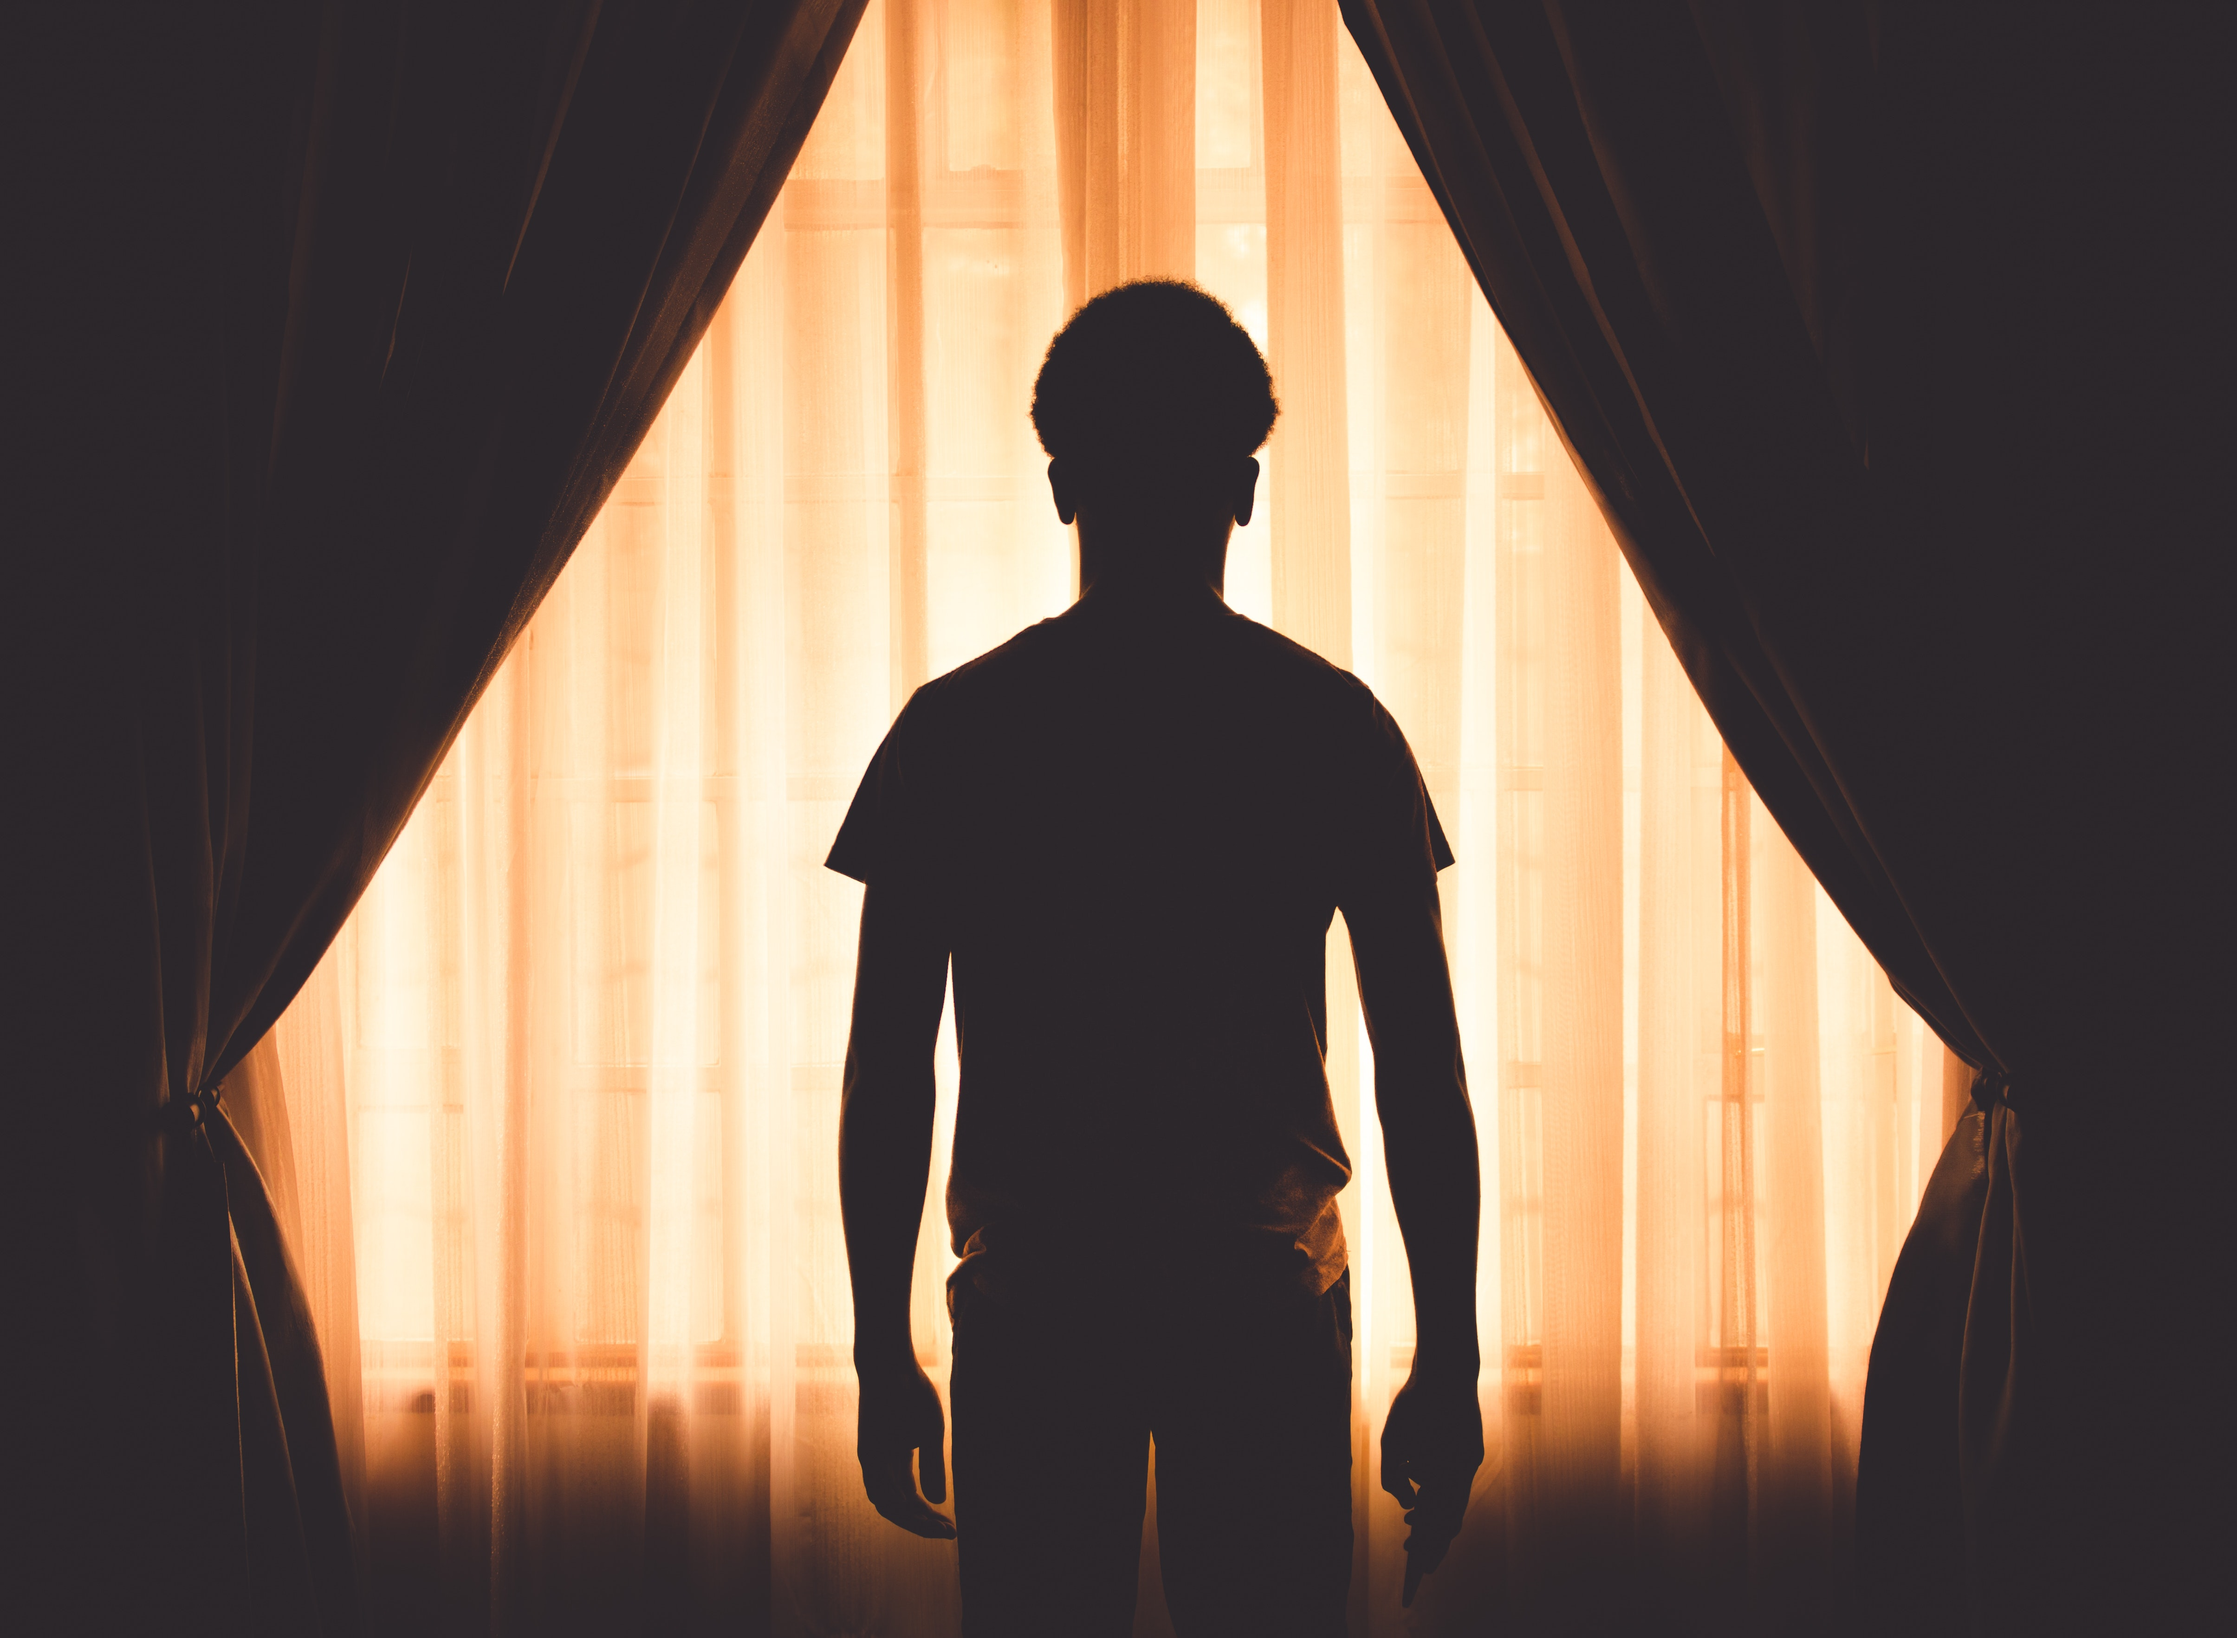
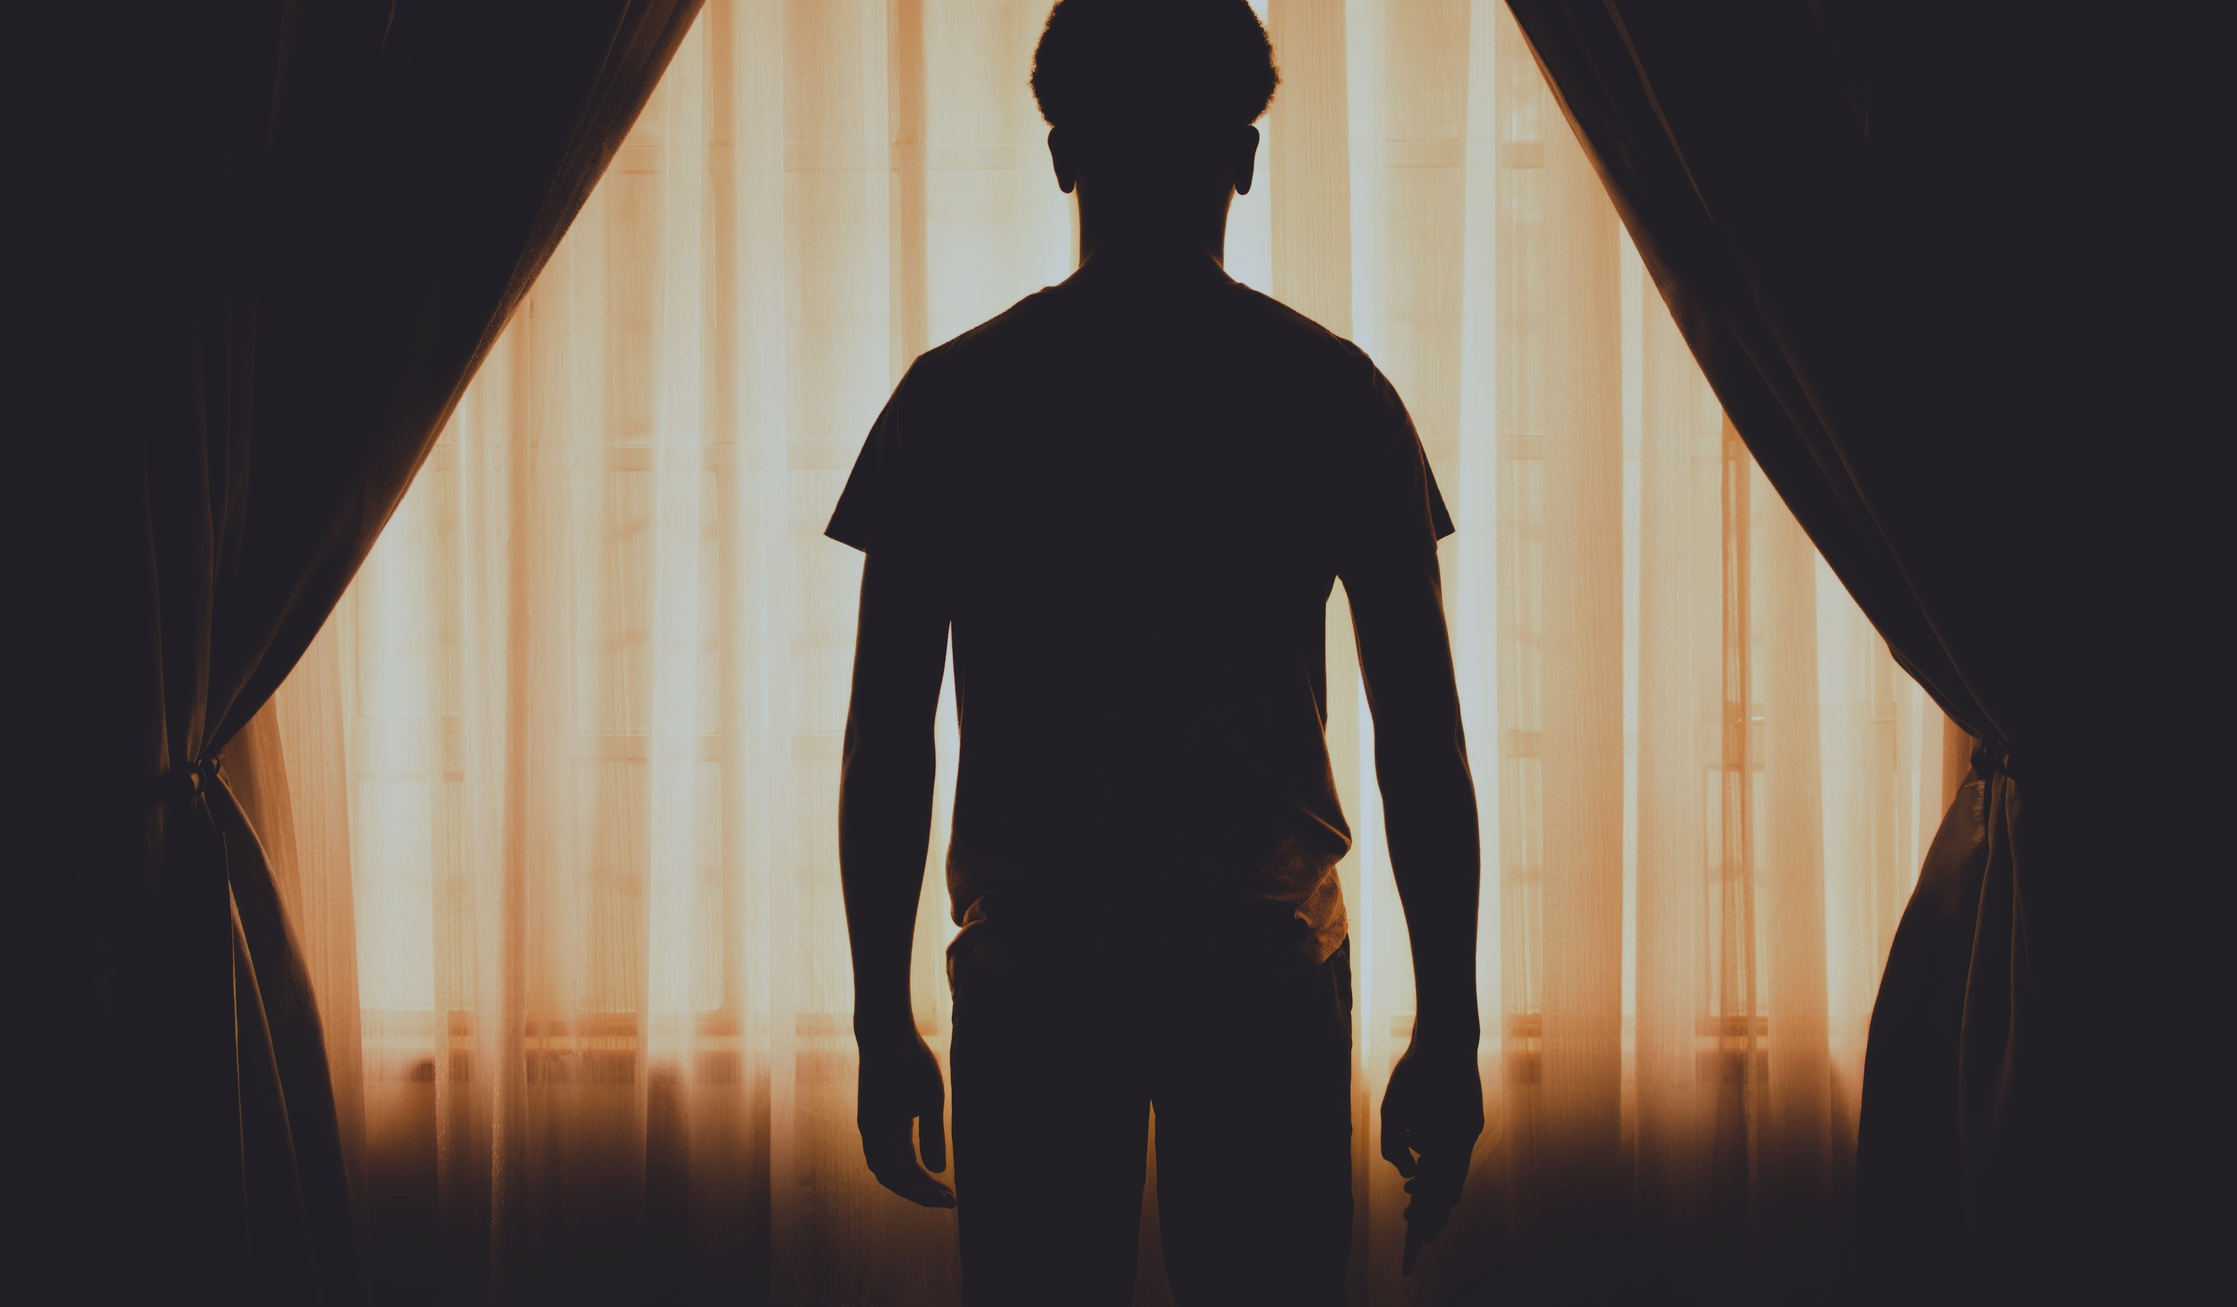
home page 85%

diff --git a/index.html b/index.html
@@ -19,17 +19,17 @@
       
        </button>
 
-        <!-- Adding Collapse Target Div  -->
+
         <div class="collapse navbar-collapse" id="colNav" style="padding-right: 5%;">
 
-            <!-- To the left side side  -->
+            
             <ul class="navbar-nav ml-auto">
 
                 <li class="nav-item active " style="padding-right: 0.5rem;">
-                    <a href="#" class="nav-link"><i class="fas fa-user-secret"></i> &nbsp;&nbsp;Home <span class="sr-only">(current)</span></a></li>
-              <li class="nav-item active"><a href="#" class="nav-link"><i class="fas fa-pen-nib"></i> &nbsp;&nbsp;Writtings</a></li>
-              <li class="nav-item active"><a href="#" class="nav-link"><i class="fas fa-flask"></i> &nbsp;&nbsp;Courses</a></li>
-              <li class="nav-item active"><a href="#" class="nav-link"><i class="fas fa-wrench"></i> &nbsp;&nbsp;Templates</a></li>
+                    <a href="#" class="nav-link"><i class="fas fa-user-secret"></i> &nbsp;&nbsp;About <span class="sr-only">(current)</span></a></li>
+              <li class="nav-item active"><a href="#" class="nav-link"><i class="fas fa-flask"></i> &nbsp;&nbsp;Portfolio</a></li>
+              <li class="nav-item active"><a href="#" class="nav-link"><i class="fas fa-pen-nib"></i> &nbsp;&nbsp;Blog</a></li>
+              <li class="nav-item active"><a href="#" class="nav-link"><i class="fas fa-wrench"></i> &nbsp;Contact</a></li>
               <li class="nav-item active" style="padding-left: 20px;"><a href="#" class="nav-link"><i class="fab fa-instagram"></i></a></li>
               <li class="nav-item active"><a href="#" class="nav-link"><i class="fab fa-twitter"></i></a></li>
               <li class="nav-item active"><a href="#" class="nav-link"><i class="fab fa-youtube"></i></a></li>  
@@ -42,12 +42,116 @@
     </nav>
     
     <div class="conatiner">
-        <img src="/Assets/Images/person-using-keyboard-beside-phone-and-coffee-cup-2255355.jpg" class="img-fluid" alt="Responsive image" id="homepagepic">
-        <div class="centered"><b>HI, I'M Tewodros Mesfin</b>
+        <img src="/Assets/Images/art-back-view-backlit-boy-448834.jpg" class="img-fluid" alt="Responsive image" id="homepagepic">
+        <div class="centered"><b>HI, I'm Tewodros Mesfin</b>
             </div>
     </div>
+    <br>
+    <div class="div container">
+        <div class="div row " style="font-size:3vw; ">
+            
+            <div class="div col align-self-center">
+                I'm a Softwawre Engineer, Avid reader and mind and body Fitness enthusiast 
+            </div>
+        </div>
+    </div>
+    <div class="div container">
+        <br><br>
+        <div class="div row">
+            <div class="div col-md-4">
+                <h1 >Hello there!</h1>
+                <P >Glad you made it to my page. It is said that "A picture is worth a thousand words"
+                    and that is why i have put these three to express my self.
+                    <Br></Br>
+                    Brief introduction to the wonderous me before we meet again on my about page in details. 
+                    I'm a pationate reader and even more pationate gamer. one of my favourite things to do is play
+                    Call of duty with my friends as often as i can.
+                    <br><br>
+                    in addition to that im usually working out or going on hiking in the forest near my vicinity
 
-    
+                </P>
+            </div>
+            <div class="div col">
+                <div id="carouselExampleIndicators" class="carousel slide" data-ride="carousel">
+                    <ol class="carousel-indicators">
+                      <li data-target="#carouselExampleIndicators" data-slide-to="0" class="active"></li>
+                      <li data-target="#carouselExampleIndicators" data-slide-to="1"></li>
+                      <li data-target="#carouselExampleIndicators" data-slide-to="2"></li>
+                    </ol>
+                    <div class="carousel-inner">
+                      <div class="carousel-item active">
+                        <img src="/Assets/Images/gameofthrones.jpg" class="d-block w-100" alt="...">
+                      </div>
+                      <div class="carousel-item">
+                        <img src="/Assets/Images/gameofthrones.jpg" class="d-block w-100" alt="...">
+                      </div>
+                      <div class="carousel-item">
+                        <img src="/Assets/Images/gameofthrones.jpg" class="d-block w-100" alt="...">
+                      </div>
+                    </div>
+                    <a class="carousel-control-prev" href="#carouselExampleIndicators" role="button" data-slide="prev">
+                      <span class="carousel-control-prev-icon" aria-hidden="true"></span>
+                      <span class="sr-only">Previous</span>
+                    </a>
+                    <a class="carousel-control-next" href="#carouselExampleIndicators" role="button" data-slide="next">
+                      <span class="carousel-control-next-icon" aria-hidden="true"></span>
+                      <span class="sr-only">Next</span>
+                    </a>
+                  </div>
+                
+            </div>
+            
+            
+            
+            
+        </div>
+    </div>
+    <br><br>
+    <div class="div container">
+        <div class="div row">
+            <div class="div col">
+
+            </div>
+            <div class="div col">
+                <h1 style="font-size:2vw; padding-left: 2%;">let's talk chess</h1>
+            </div>
+        </div>
+        <br>
+        <div class="div row ">
+            <div class="div col">
+                
+                <img src="/Assets/Images/board (1).gif" alt="..." class="img-thumbnail">
+            </div>
+            <div class="div col-md-4">
+                <p >First time i saw a chess set was when i was 5, I was really mesmerized by the absoulte 
+                    focus displayed by the players having a friendly game in a cafe. and then i went home 
+                    asked my father to show me how to play. <br><br> Using oxford dictionary we Were able to 
+                    set up the board properly, not knowing much about the game i was overwhelmed with many defeats
+                    . ever since then i have been pursing that game when ever i have time. here is a game of mine from
+                chess.com, enjoy!</p>
+                <br>
+                <a href="https://lichess.org/@/tedy_1818" target="blank" class="btn btn-outline-secondary"  style="background-color:darkcyan; color: white;">Send Me A friendly challange!</a>
+                
+            </div>
+        </div>
+    </div>
+    <br><br>
+
+    <div class="div container">
+        <div class="div row">
+            <div class="div col">
+                <img src="/Assets/Images/gameofthrones.jpg" alt="..." class="img-thumbnail">
+            </div>
+            <div class="div col">
+                <img src="/Assets/Images/gameofthrones.jpg" alt="..." class="img-thumbnail">
+            </div>
+            <div class="div col">
+                <img src="/Assets/Images/gameofthrones.jpg" alt="..." class="img-thumbnail">
+            </div>
+        </div>
+    </div>
+
+
     <script src="https://cdn.jsdelivr.net/npm/bootstrap@5.0.0-beta1/dist/js/bootstrap.bundle.min.js" integrity="sha384-ygbV9kiqUc6oa4msXn9868pTtWMgiQaeYH7/t7LECLbyPA2x65Kgf80OJFdroafW" crossorigin="anonymous"></script>
     <script src="https://code.jquery.com/jquery-3.5.1.slim.min.js" integrity="sha384-DfXdz2htPH0lsSSs5nCTpuj/zy4C+OGpamoFVy38MVBnE+IbbVYUew+OrCXaRkfj" crossorigin="anonymous"></script>
     <script src="https://kit.fontawesome.com/6f638d48e5.js" crossorigin="anonymous"></script>

diff --git a/Assets/css/index.css b/Assets/css/index.css
@@ -1,6 +1,6 @@
 .centered {
     position: absolute;
-    top: 50%;
+    top: 65%;
     left: 50%;
     transform: translate(-50%, -50%);
     color: aliceblue;
@@ -9,3 +9,7 @@
 #homepagepic {
     clip-path: polygon(0 0, 100% 0, 100% 87%, 50% 100%, 0 88%) ;
 }
+
+
+
+
